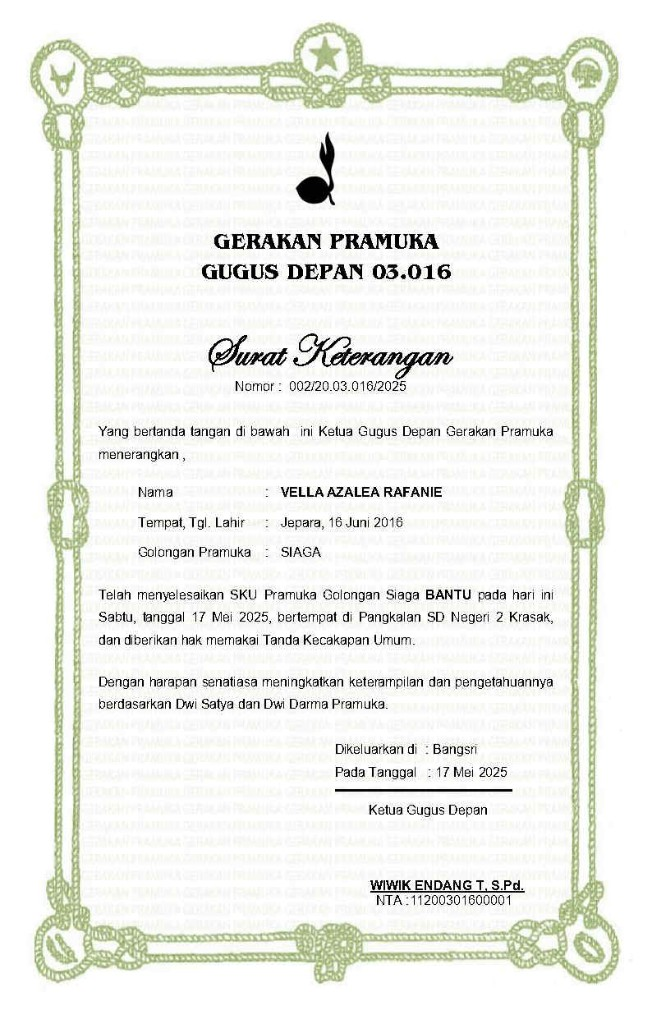
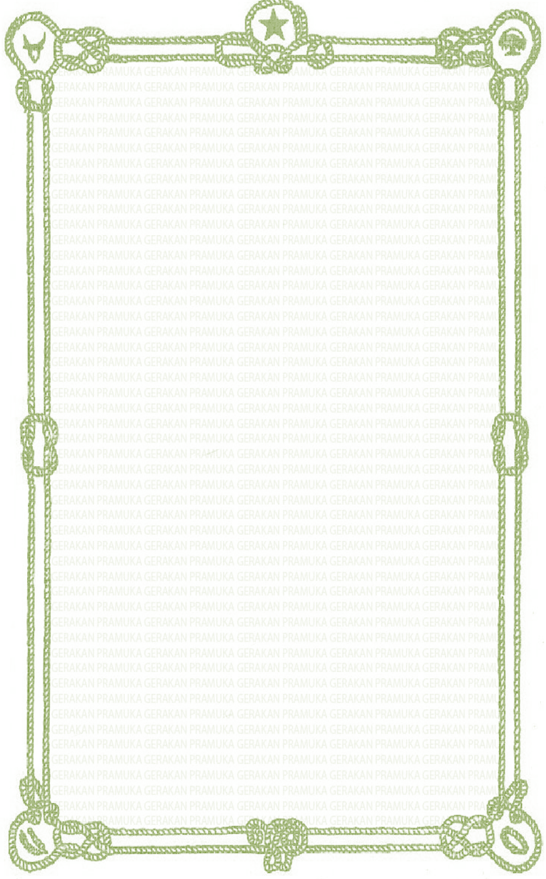
update cetak

Changed region(s): [[0.0, 0.0, 0.9963, 1.0], [0.1557, 0.3072, 0.8407, 0.7986]]

diff --git a/admin/print_surat_keterangan.php b/admin/print_surat_keterangan.php
@@ -20,6 +20,7 @@ $autoPrint = (int)($_GET['auto'] ?? 1) === 1;
 $print_settings_data = [
     'ketua_gudep' => '',
     'nta_ketua_gudep' => '',
+    'nomor_gudep' => '',
     'gugus_depan' => '03.016',
     'nomor_surat' => '',
     'tempat_surat' => '',
@@ -35,6 +36,7 @@ try {
         $print_settings_data = [
             'ketua_gudep' => $settings['ketua_gudep'] ?? '',
             'nta_ketua_gudep' => $settings['nta_ketua_gudep'] ?? '',
+            'nomor_gudep' => $settings['nomor_gudep'] ?? '',
             'gugus_depan' => $settings['gugus_depan'] ?? '03.016',
             'nomor_surat' => $settings['nomor_surat'] ?? '',
             'tempat_surat' => $settings['tempat_surat'] ?? '',
@@ -58,15 +60,13 @@ $formatTanggal = function ($value) {
 
 $tempat_surat = $print_settings_data['tempat_surat'] ?: '................';
 $tanggal_surat = $formatTanggal($print_settings_data['tanggal_surat'] ?: date('d-m-Y'));
-$gugus_depan = trim((string)($print_settings_data['gugus_depan'] ?? '03.016'));
+$gugus_depan = trim((string)(($print_settings_data['nomor_gudep'] ?? '') ?: ($print_settings_data['gugus_depan'] ?? '03.016')));
 $nomor_surat = trim((string)($print_settings_data['nomor_surat'] ?? ''));
 $tempat_pelantikan = trim((string)($print_settings_data['tempat_pelantikan'] ?? ''));
 $ketua_gudep = $print_settings_data['ketua_gudep'] ?: '........................';
 $nta_ketua_gudep = $print_settings_data['nta_ketua_gudep'] ?: '';
 $logo_pramuka = $print_settings_data['logo_pramuka'] ? ('../uploads/' . $print_settings_data['logo_pramuka']) : '';
-$bingkai = !empty($print_settings_data['bingkai_surat'])
-    ? ('../uploads/' . $print_settings_data['bingkai_surat'])
-    : '../assets/img/bingkai_surat_keterangan.png';
+$bingkai = '../assets/img/template_surat_keterangan.png';
 
 $formatTanggalIndo = function ($value) {
     $v = trim((string)$value);
@@ -87,6 +87,9 @@ $hariIndo = function ($value) {
     $hari = ['Minggu', 'Senin', 'Selasa', 'Rabu', 'Kamis', 'Jumat', 'Sabtu'];
     return $hari[(int)date('w', $ts)] ?? '';
 };
+
+$tahun_surat = date('Y', strtotime((string)($print_settings_data['tanggal_surat'] ?? date('Y-m-d'))));
+$nomor_gudep_part = $gugus_depan !== '' ? $gugus_depan : '...';
 
 $participants = [];
 if ($mode === 'all') {
@@ -132,6 +135,11 @@ if (empty($participants)) {
     exit;
 }
 
+// Dynamic nomor surat: mulai dari peserta didik pertama (001, 002, ...)
+foreach ($participants as $idx => $row) {
+    $participants[$idx]['nomor_urut'] = str_pad((string)($idx + 1), 3, '0', STR_PAD_LEFT);
+}
+
 function h($v) {
     return htmlspecialchars((string)$v, ENT_QUOTES, 'UTF-8');
 }
@@ -172,32 +180,41 @@ function h($v) {
     .page:last-child { page-break-after: auto; }
     .bg {
       position: absolute; inset: 0;
-      width: 210mm; height: 297mm;
+      width: 216mm; height: 303mm;
+      top: -3mm; left: -3mm;
       object-fit: contain;
       z-index: 0;
       pointer-events: none;
       user-select: none;
     }
-    .content { position: relative; z-index: 1; padding: 18mm 22mm 18mm 22mm; }
+    .content {
+      position: relative;
+      z-index: 1;
+      box-sizing: border-box;
+      width: 156mm;          /* tighter safe text area inside frame */
+      min-height: 245mm;
+      margin: 24mm auto 0;
+      padding: 0;
+    }
     .center { text-align: center; }
-    .logo { width: 22mm; height: 22mm; object-fit: contain; margin: 0 auto 3mm; display:block; }
+    .logo { width: 22mm; height: 22mm; object-fit: contain; margin: 10mm auto 6mm; display:block; }
     .h1 { font-weight: 700; letter-spacing: 0.5px; font-size: 14pt; margin: 0; }
-    .h2 { font-weight: 700; letter-spacing: 0.5px; font-size: 13pt; margin: 2mm 0 0; }
+    .h2 { font-weight: 700; letter-spacing: 0.5px; font-size: 14pt; margin: 2mm 0 0; }
     .script { font-family: "Brush Script MT", "Segoe Script", "Snell Roundhand", cursive; font-size: 26pt; margin: 6mm 0 0; }
-    .nomor { font-size: 11pt; margin: 1mm 0 0; }
-    .body { margin-top: 6mm; font-size: 11pt; line-height: 1.6; }
-    .label-table { width: 100%; margin: 5mm 0 4mm; font-size: 11pt; }
+    .nomor { font-size: 12pt; margin: 1mm 0 0; }
+    .body { margin-top: 6mm; font-size: 12pt; line-height: 1.6; }
+    .label-table { width: 96%; margin: 5mm auto 4mm; font-size: 12pt; }
     .label-table td { padding: 1mm 0; vertical-align: top; }
-    .label { width: 40mm; padding-left: 18mm; }
+    .label { width: 42mm; padding-left: 8mm; }
     .colon { width: 4mm; text-align: center; }
     .value { font-weight: 700; }
-    .para { margin: 3mm 0; text-align: justify; padding: 0 6mm; }
-    .sign { margin-top: 8mm; font-size: 11pt; }
+    .para { margin: 3mm 0; text-align: justify; padding: 0; }
+    .sign { margin-top: 12mm; font-size: 12pt; }
     .sign-table { width: 100%; }
     .sign-table td { vertical-align: top; }
-    .sign-right { width: 55%; padding-right: 10mm; }
-    .line { border-top: 1px solid #111; width: 52mm; margin: 10mm 0 2mm auto; }
+    .sign-right { width: 44%; padding-right: 2mm; }
     .name { font-weight: 800; text-decoration: underline; }
+    .ketua-block { margin-top: 14mm; }
   </style>
 </head>
 <body>
@@ -214,6 +231,7 @@ function h($v) {
     <div class="page">
       <img class="bg" src="<?= h($bingkai) ?>" alt="Bingkai Surat">
       <div class="content">
+        <?php $nomor_surat_full = ($p['nomor_urut'] ?? '001') . '/20.' . $nomor_gudep_part . '/' . $tahun_surat; ?>
         <div class="center">
           <?php if (!empty($logo_pramuka)): ?>
             <img class="logo" src="<?= h($logo_pramuka) ?>" alt="Logo Pramuka">
@@ -221,7 +239,7 @@ function h($v) {
           <p class="h1">GERAKAN PRAMUKA</p>
           <p class="h2">GUGUS DEPAN <?= h($gugus_depan ?: '........') ?></p>
           <div class="script">Surat Keterangan</div>
-          <div class="nomor">Nomor : <?= h($nomor_surat ?: '.....................') ?></div>
+          <div class="nomor">Nomor : <?= h($nomor_surat_full) ?></div>
         </div>
 
         <div class="body">
@@ -272,8 +290,7 @@ function h($v) {
                 <td class="sign-right">
                   <div>Dikeluarkan di : <?= h($tempat_surat) ?></div>
                   <div>Pada Tanggal : <?= h($formatTanggalIndo($print_settings_data['tanggal_surat'] ?? '')) ?></div>
-                  <div class="line"></div>
-                  <div class="center">Ketua Gugus Depan</div>
+                  <div class="center ketua-block">Ketua Gugus Depan</div>
                   <div style="height: 18mm;"></div>
                   <div class="center name"><?= h($ketua_gudep) ?></div>
                   <?php if ($nta_ketua_gudep !== ''): ?>

diff --git a/admin/surat_keterangan.php b/admin/surat_keterangan.php
@@ -82,6 +82,7 @@ if ($selected_tingkat_id > 0) {
 $print_settings_data = [
     'ketua_gudep' => '',
     'nta_ketua_gudep' => '',
+    'nomor_gudep' => '',
     'gugus_depan' => '03.016',
     'nomor_surat' => '',
     'tempat_pelantikan' => '',
@@ -97,6 +98,7 @@ try {
         $print_settings_data = [
             'ketua_gudep' => $settings_tmp['ketua_gudep'] ?? '',
             'nta_ketua_gudep' => $settings_tmp['nta_ketua_gudep'] ?? '',
+            'nomor_gudep' => $settings_tmp['nomor_gudep'] ?? '',
             'gugus_depan' => $settings_tmp['gugus_depan'] ?? '03.016',
             'nomor_surat' => $settings_tmp['nomor_surat'] ?? '',
             'tempat_pelantikan' => $settings_tmp['tempat_pelantikan'] ?? '',
@@ -114,8 +116,9 @@ try {
 if ($_SERVER['REQUEST_METHOD'] == 'POST' && isset($_POST['save_print_settings'])) {
     $ketua_gudep = $_POST['ketua_gudep'] ?? '';
     $nta_ketua_gudep = $_POST['nta_ketua_gudep'] ?? '';
-    $gugus_depan = $_POST['gugus_depan'] ?? '03.016';
-    $nomor_surat = $_POST['nomor_surat'] ?? '';
+    $nomor_gudep = $_POST['nomor_gudep'] ?? '';
+    $gugus_depan = $_POST['gugus_depan'] ?? ($print_settings_data['gugus_depan'] ?? '03.016');
+    $nomor_surat = $_POST['nomor_surat'] ?? ($print_settings_data['nomor_surat'] ?? '');
     $tempat_pelantikan = $_POST['tempat_pelantikan'] ?? '';
     $tempat_surat = $_POST['tempat_surat'] ?? '';
     $tanggal_surat = $_POST['tanggal_surat'] ?? '';
@@ -125,6 +128,9 @@ if ($_SERVER['REQUEST_METHOD'] == 'POST' && isset($_POST['save_print_settings'])
     // Ensure columns exist (safe no-op if already exists)
     try {
         $pdo->exec("ALTER TABLE tb_pengaturan_cetak_barung ADD COLUMN nta_ketua_gudep VARCHAR(50) NULL");
+    } catch (Exception $e) { /* ignore */ }
+    try {
+        $pdo->exec("ALTER TABLE tb_pengaturan_cetak_barung ADD COLUMN nomor_gudep VARCHAR(50) NULL");
     } catch (Exception $e) { /* ignore */ }
     try {
         $pdo->exec("ALTER TABLE tb_pengaturan_cetak_barung ADD COLUMN gugus_depan VARCHAR(50) NULL");
@@ -172,16 +178,16 @@ if ($_SERVER['REQUEST_METHOD'] == 'POST' && isset($_POST['save_print_settings'])
             // Update
             $stmt = $pdo->prepare("
                 UPDATE tb_pengaturan_cetak_barung 
-                SET ketua_gudep = ?, nta_ketua_gudep = ?, gugus_depan = ?, nomor_surat = ?, tempat_pelantikan = ?, tempat_surat = ?, tanggal_surat = ?, logo_pramuka = ?, template_surat = ?
+                SET ketua_gudep = ?, nta_ketua_gudep = ?, nomor_gudep = ?, gugus_depan = ?, nomor_surat = ?, tempat_pelantikan = ?, tempat_surat = ?, tanggal_surat = ?, logo_pramuka = ?, template_surat = ?
             ");
-            $stmt->execute([$ketua_gudep, $nta_ketua_gudep, $gugus_depan, $nomor_surat, $tempat_pelantikan, $tempat_surat, $tanggal_surat, $logo_pramuka, $template_surat]);
+            $stmt->execute([$ketua_gudep, $nta_ketua_gudep, $nomor_gudep, $gugus_depan, $nomor_surat, $tempat_pelantikan, $tempat_surat, $tanggal_surat, $logo_pramuka, $template_surat]);
         } else {
             // Insert
             $stmt = $pdo->prepare("
-                INSERT INTO tb_pengaturan_cetak_barung (ketua_gudep, nta_ketua_gudep, gugus_depan, nomor_surat, tempat_pelantikan, tempat_surat, tanggal_surat, logo_pramuka, template_surat)
-                VALUES (?, ?, ?, ?, ?, ?, ?, ?, ?)
+                INSERT INTO tb_pengaturan_cetak_barung (ketua_gudep, nta_ketua_gudep, nomor_gudep, gugus_depan, nomor_surat, tempat_pelantikan, tempat_surat, tanggal_surat, logo_pramuka, template_surat)
+                VALUES (?, ?, ?, ?, ?, ?, ?, ?, ?, ?)
             ");
-            $stmt->execute([$ketua_gudep, $nta_ketua_gudep, $gugus_depan, $nomor_surat, $tempat_pelantikan, $tempat_surat, $tanggal_surat, $logo_pramuka, $template_surat]);
+            $stmt->execute([$ketua_gudep, $nta_ketua_gudep, $nomor_gudep, $gugus_depan, $nomor_surat, $tempat_pelantikan, $tempat_surat, $tanggal_surat, $logo_pramuka, $template_surat]);
         }
         
         $message = ['type' => 'success', 'text' => 'Pengaturan cetak berhasil disimpan!'];
@@ -197,6 +203,7 @@ try {
         $print_settings_data = [
             'ketua_gudep' => $settings['ketua_gudep'] ?? '',
             'nta_ketua_gudep' => $settings['nta_ketua_gudep'] ?? '',
+            'nomor_gudep' => $settings['nomor_gudep'] ?? '',
             'gugus_depan' => $settings['gugus_depan'] ?? '03.016',
             'nomor_surat' => $settings['nomor_surat'] ?? '',
             'tempat_pelantikan' => $settings['tempat_pelantikan'] ?? '',
@@ -317,7 +324,7 @@ include '../templates/sidebar.php';
                             </div>
                             <div class="form-group">
                                 <label>Gugus Depan:</label>
-                                <p class="font-weight-bold"><?= htmlspecialchars($print_settings_data['gugus_depan'] ?: '-') ?></p>
+                                <p class="font-weight-bold"><?= htmlspecialchars(($print_settings_data['nomor_gudep'] ?? '') ?: ($print_settings_data['gugus_depan'] ?? '-') ) ?></p>
                             </div>
                             <div class="form-group">
                                 <label>Nomor Surat:</label>
@@ -442,14 +449,11 @@ include '../templates/sidebar.php';
                         </div>
 
                         <div class="form-group">
-                            <label>Gugus Depan:</label>
-                            <input type="text" name="gugus_depan" class="form-control" value="<?= htmlspecialchars($print_settings_data['gugus_depan'] ?? '03.016') ?>" placeholder="Contoh: 03.016">
+                            <label>Nomor Gudep:</label>
+                            <input type="text" name="nomor_gudep" class="form-control" value="<?= htmlspecialchars($print_settings_data['nomor_gudep'] ?? '') ?>" placeholder="Contoh: 03.016">
                         </div>
 
-                        <div class="form-group">
-                            <label>Nomor Surat:</label>
-                            <input type="text" name="nomor_surat" class="form-control" value="<?= htmlspecialchars($print_settings_data['nomor_surat'] ?? '') ?>" placeholder="Contoh: 002/20.03.016/2025">
-                        </div>
+                        <!-- Input Gugus Depan dan Nomor Surat dihapus dari modal -->
                         
                         <div class="form-group">
                             <label>Tempat Pelantikan:</label>

diff --git a/admin/export_surat_keterangan_pdf.php b/admin/export_surat_keterangan_pdf.php
@@ -45,6 +45,7 @@ if (empty($export_participants)) {
 $print_settings_data = [
     'ketua_gudep' => '',
     'nta_ketua_gudep' => '',
+    'nomor_gudep' => '',
     'gugus_depan' => '03.016',
     'nomor_surat' => '',
     'tempat_pelantikan' => '',
@@ -59,6 +60,7 @@ try {
         $print_settings_data = [
             'ketua_gudep' => $settings['ketua_gudep'] ?? '',
             'nta_ketua_gudep' => $settings['nta_ketua_gudep'] ?? '',
+            'nomor_gudep' => $settings['nomor_gudep'] ?? '',
             'gugus_depan' => $settings['gugus_depan'] ?? '03.016',
             'nomor_surat' => $settings['nomor_surat'] ?? '',
             'tempat_pelantikan' => $settings['tempat_pelantikan'] ?? '',
@@ -125,10 +127,12 @@ $tempat_surat = $print_settings_data['tempat_surat'] ?: '................';
 $tanggal_surat_indo = $formatTanggalIndo($print_settings_data['tanggal_surat'] ?? '');
 $hari_kegiatan = $hariIndo($print_settings_data['tanggal_surat'] ?? '');
 $tempat_pelantikan = $print_settings_data['tempat_pelantikan'] ?? '';
-$gugus_depan = $print_settings_data['gugus_depan'] ?? '03.016';
+$gugus_depan = ($print_settings_data['nomor_gudep'] ?? '') ?: ($print_settings_data['gugus_depan'] ?? '03.016');
 $nomor_surat = $print_settings_data['nomor_surat'] ?? '';
 $ketua_gudep = $print_settings_data['ketua_gudep'] ?: '........................';
 $nta_ketua_gudep = $print_settings_data['nta_ketua_gudep'] ?: '';
+$tahun_surat = date('Y', strtotime((string)($print_settings_data['tanggal_surat'] ?? date('Y-m-d'))));
+$nomor_gudep_part = trim((string)$gugus_depan) !== '' ? trim((string)$gugus_depan) : '...';
 
 // Resolve tingkat name for "SKU ... Siaga <TINGKAT>"
 $tingkat_name = '';
@@ -143,7 +147,12 @@ try {
 $tingkat_upper = strtoupper(trim($tingkat_name));
 
 $pages_html = '';
+$idx_nomor = 0;
 foreach ($export_participants as $p) {
+    $idx_nomor++;
+    $nomor_urut = str_pad((string)$idx_nomor, 3, '0', STR_PAD_LEFT);
+    $nomor_surat_full = $nomor_urut . '/20.' . $nomor_gudep_part . '/' . $tahun_surat;
+
     $nama = htmlspecialchars((string)($p['nama_peserta_didik'] ?? ''), ENT_QUOTES, 'UTF-8');
     $ttl_place = trim((string)($p['tempat_lahir'] ?? ''));
     $ttl_date = !empty($p['tanggal_lahir']) ? $formatTanggalIndo($p['tanggal_lahir']) : '';
@@ -158,7 +167,7 @@ foreach ($export_participants as $p) {
           <div class="h1">GERAKAN PRAMUKA</div>
           <div class="h2">GUGUS DEPAN ' . htmlspecialchars((string)$gugus_depan, ENT_QUOTES, 'UTF-8') . '</div>
           <div class="script">Surat Keterangan</div>
-          <div class="nomor">Nomor : ' . htmlspecialchars((string)($nomor_surat ?: '.....................'), ENT_QUOTES, 'UTF-8') . '</div>
+          <div class="nomor">Nomor : ' . htmlspecialchars((string)$nomor_surat_full, ENT_QUOTES, 'UTF-8') . '</div>
         </div>
 
         <div class="para">Yang bertanda tangan di bawah ini Ketua Gugus Depan Gerakan Pramuka menerangkan,</div>
@@ -193,8 +202,7 @@ foreach ($export_participants as $p) {
           <div class="sign-right">
             <div>Dikeluarkan di : ' . htmlspecialchars((string)$tempat_surat, ENT_QUOTES, 'UTF-8') . '</div>
             <div>Pada Tanggal : ' . htmlspecialchars((string)$tanggal_surat_indo, ENT_QUOTES, 'UTF-8') . '</div>
-            <div class="line"></div>
-            <div class="center">Ketua Gugus Depan</div>
+            <div class="center ketua-block">Ketua Gugus Depan</div>
             <div style="height: 18mm;"></div>
             <div class="center name">' . htmlspecialchars((string)$ketua_gudep, ENT_QUOTES, 'UTF-8') . '</div>
             ' . ($nta_ketua_gudep !== '' ? '<div class="center">NTA : ' . htmlspecialchars((string)$nta_ketua_gudep, ENT_QUOTES, 'UTF-8') . '</div>' : '') . '
@@ -213,23 +221,31 @@ $html = '<!doctype html>
     body { margin: 0; font-family: DejaVu Sans, Arial, sans-serif; }
     .page { position: relative; width: 210mm; height: 297mm; page-break-after: always; }
     .page:last-child { page-break-after: auto; }
-    .bg { position: absolute; top: 0; left: 0; width: 210mm; height: 297mm; object-fit: contain; z-index: 0; }
-    .content { position: relative; z-index: 1; padding: 18mm 22mm; }
+    .bg { position: absolute; top: -3mm; left: -3mm; width: 216mm; height: 303mm; object-fit: contain; z-index: 0; }
+    .content {
+      position: relative;
+      z-index: 1;
+      box-sizing: border-box;
+      width: 156mm;          /* tighter safe text area inside frame */
+      min-height: 245mm;
+      margin: 24mm auto 0;
+      padding: 0;
+    }
     .center { text-align: center; }
-    .logo { width: 22mm; height: 22mm; object-fit: contain; margin: 0 auto 3mm; display:block; }
+    .logo { width: 22mm; height: 22mm; object-fit: contain; margin: 10mm auto 6mm; display:block; }
     .h1 { font-weight: 700; letter-spacing: 0.5px; font-size: 14pt; }
-    .h2 { font-weight: 700; letter-spacing: 0.5px; font-size: 13pt; margin-top: 2mm; }
+    .h2 { font-weight: 700; letter-spacing: 0.5px; font-size: 14pt; margin-top: 2mm; }
     .script { font-family: DejaVu Sans, Arial, sans-serif; font-style: italic; font-size: 26pt; margin-top: 6mm; }
-    .nomor { font-size: 11pt; margin-top: 1mm; }
-    .para { margin: 4mm 0; text-align: justify; font-size: 11pt; line-height: 1.6; padding: 0 6mm; }
-    .label-table { width: 100%; margin: 5mm 0 4mm; font-size: 11pt; }
-    .label { width: 40mm; padding-left: 18mm; }
+    .nomor { font-size: 12pt; margin-top: 1mm; }
+    .para { margin: 4mm 0; text-align: justify; font-size: 12pt; line-height: 1.6; padding: 0; }
+    .label-table { width: 96%; margin: 5mm auto 4mm; font-size: 12pt; }
+    .label { width: 42mm; padding-left: 8mm; }
     .colon { width: 4mm; text-align: center; }
     .value { font-weight: 700; }
-    .sign { margin-top: 8mm; font-size: 11pt; }
-    .sign-right { width: 90mm; margin-left: auto; padding-right: 10mm; }
-    .line { border-top: 1px solid #111; width: 52mm; margin: 10mm 0 2mm auto; }
+    .sign { margin-top: 12mm; font-size: 12pt; }
+    .sign-right { width: 72mm; margin-left: auto; padding-right: 2mm; }
     .name { font-weight: 800; text-decoration: underline; }
+    .ketua-block { margin-top: 14mm; }
   </style>
 </head>
 <body>' . $pages_html . '</body></html>';
